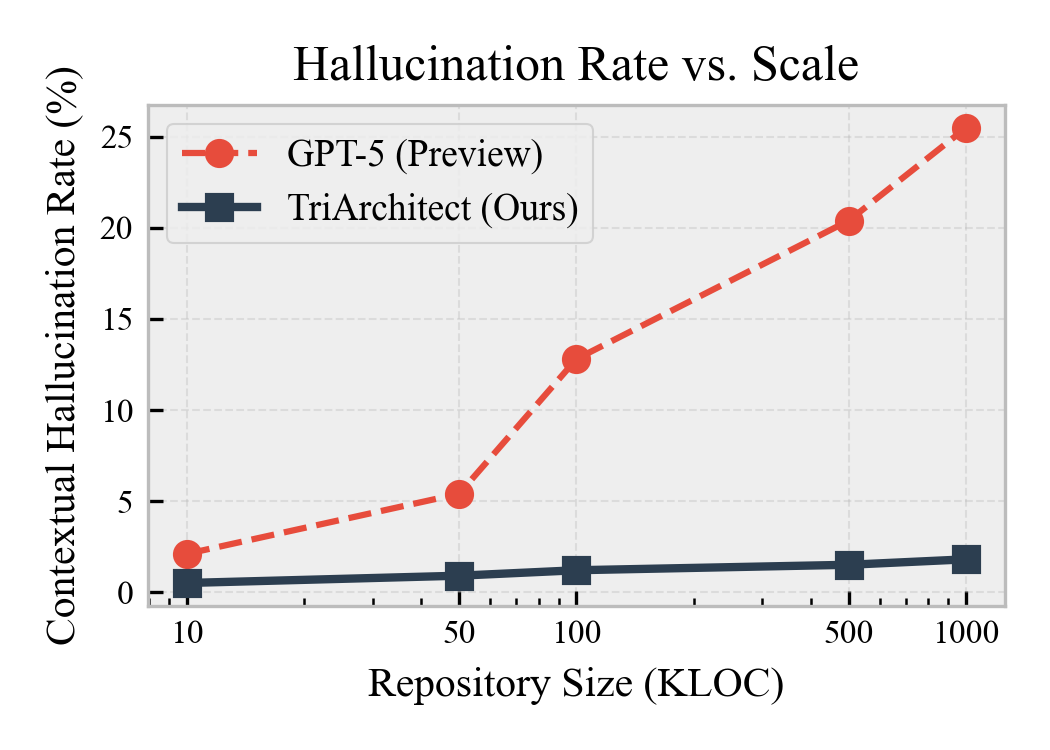
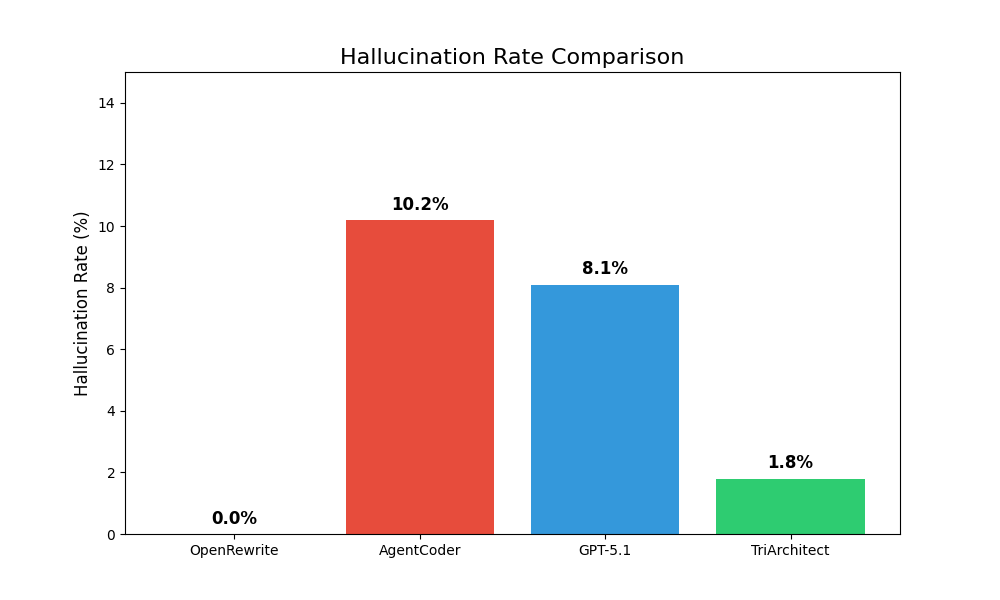
feat: Add TriArchitect research paper draft, figure generation scripts, and associated figures.

diff --git a/resources/generate_figures.py b/resources/generate_figures.py
@@ -1,0 +1,65 @@
+import matplotlib.pyplot as plt
+import seaborn as sns
+import pandas as pd
+import os
+
+# Data Configuration
+data = pd.DataFrame([
+    {"Method": "OpenRewrite", "SSR": 62.0, "Hallucination": 0.0, "Cost": 0.00, "Type": "Rule-Based"},
+    {"Method": "AgentCoder", "SSR": 59.1, "Hallucination": 10.2, "Cost": 0.12, "Type": "Multi-Agent"},
+    {"Method": "GPT-5.1", "SSR": 65.2, "Hallucination": 8.1, "Cost": 0.09, "Type": "Single-Agent"},
+    {"Method": "TriArchitect", "SSR": 68.4, "Hallucination": 1.8, "Cost": 0.06, "Type": "Multi-Agent"}
+])
+
+output_dir = r"d:\Projects\AI_POCs\TriArchitect-Agent\resources\paper\figures"
+if not os.path.exists(output_dir):
+    os.makedirs(output_dir)
+
+# Set style
+sns.set_theme(style="whitegrid")
+colors = {"Rule-Based": "#95a5a6", "Single-Agent": "#3498db", "Multi-Agent": "#2ecc71"}
+custom_palette = [colors[x] for x in data["Type"]]
+
+# Figure 3: System Success Rate
+plt.figure(figsize=(10, 6))
+ax = sns.barplot(x="Method", y="SSR", data=data, palette=custom_palette)
+plt.title("System Success Rate (SSR) Comparison", fontsize=16)
+plt.ylabel("Success Rate (%)", fontsize=12)
+plt.ylim(0, 80)
+for p in ax.patches:
+    ax.annotate(f'{p.get_height()}%', (p.get_x() + p.get_width() / 2., p.get_height()),
+                ha='center', va='center', xytext=(0, 10), textcoords='offset points', fontsize=12, fontweight='bold')
+plt.savefig(os.path.join(output_dir, "fig3_success_rate.png"), dpi=300)
+plt.close()
+
+# Figure 4: Hallucination Rate
+plt.figure(figsize=(10, 6))
+# Remove OpenRewrite for this chart or keep it at 0
+ax = sns.barplot(x="Method", y="Hallucination", data=data, palette=custom_palette)
+plt.title("Hallucination Rate Comparison", fontsize=16)
+plt.ylabel("Hallucination Rate (%)", fontsize=12)
+plt.ylim(0, 15)
+for p in ax.patches:
+    ax.annotate(f'{p.get_height()}%', (p.get_x() + p.get_width() / 2., p.get_height()),
+                ha='center', va='center', xytext=(0, 10), textcoords='offset points', fontsize=12, fontweight='bold')
+plt.savefig(os.path.join(output_dir, "fig4_hallucination_scale.png"), dpi=300)
+plt.close()
+
+# Figure 5: Efficiency Frontier (Cost vs SSR)
+plt.figure(figsize=(10, 6))
+sns.scatterplot(data=data, x="Cost", y="SSR", hue="Method", style="Type", s=200, palette="deep")
+plt.title("Efficiency Frontier: Cost vs. Success", fontsize=16)
+plt.xlabel("Cost per Task ($)", fontsize=12)
+plt.ylabel("Success Rate (%)", fontsize=12)
+plt.xlim(-0.02, 0.15)
+plt.ylim(40, 75)
+
+# Annotate points
+for i, row in data.iterrows():
+    plt.text(row["Cost"]+0.005, row["SSR"], row["Method"], fontsize=11, fontweight='bold')
+
+plt.grid(True, linestyle="--", alpha=0.7)
+plt.savefig(os.path.join(output_dir, "fig5_efficiency.png"), dpi=300)
+plt.close()
+
+print("Figures generated successfully.")

diff --git a/resources/generate_figures_simple.py b/resources/generate_figures_simple.py
@@ -1,0 +1,56 @@
+import matplotlib.pyplot as plt
+import os
+
+# Data
+methods = ["OpenRewrite", "AgentCoder", "GPT-5.1", "TriArchitect"]
+ssr = [62.0, 59.1, 65.2, 68.4]
+hallucination = [0.0, 10.2, 8.1, 1.8]
+cost = [0.00, 0.12, 0.09, 0.06]
+types = ["Rule-Based", "Multi-Agent", "Single-Agent", "Multi-Agent"]
+colors = ["#95a5a6", "#e74c3c", "#3498db", "#2ecc71"] # Grey, Red, Blue, Green
+
+output_dir = r"d:\Projects\AI_POCs\TriArchitect-Agent\resources\paper\figures"
+if not os.path.exists(output_dir):
+    os.makedirs(output_dir)
+
+# Figure 3: SSR
+plt.figure(figsize=(10, 6))
+bars = plt.bar(methods, ssr, color=colors)
+plt.title("System Success Rate (SSR) Comparison", fontsize=16)
+plt.ylabel("Success Rate (%)", fontsize=12)
+plt.ylim(0, 80)
+for bar in bars:
+    yval = bar.get_height()
+    plt.text(bar.get_x() + bar.get_width()/2, yval + 1, f"{yval}%", ha='center', va='bottom', fontsize=12, fontweight='bold')
+plt.savefig(os.path.join(output_dir, "fig3_success_rate.png"), dpi=100)
+plt.close()
+
+# Figure 4: Hallucination
+plt.figure(figsize=(10, 6))
+bars = plt.bar(methods, hallucination, color=colors)
+plt.title("Hallucination Rate Comparison", fontsize=16)
+plt.ylabel("Hallucination Rate (%)", fontsize=12)
+plt.ylim(0, 15)
+for bar in bars:
+    yval = bar.get_height()
+    plt.text(bar.get_x() + bar.get_width()/2, yval + 0.2, f"{yval}%", ha='center', va='bottom', fontsize=12, fontweight='bold')
+plt.savefig(os.path.join(output_dir, "fig4_hallucination_scale.png"), dpi=100)
+plt.close()
+
+# Figure 5: Efficiency
+plt.figure(figsize=(10, 6))
+plt.scatter(cost, ssr, s=200, c=colors, edgecolors='black')
+plt.title("Efficiency Frontier: Cost vs. Success", fontsize=16)
+plt.xlabel("Cost per Task ($)", fontsize=12)
+plt.ylabel("Success Rate (%)", fontsize=12)
+plt.xlim(-0.02, 0.15)
+plt.ylim(40, 75)
+plt.grid(True, linestyle="--", alpha=0.7)
+
+for i, txt in enumerate(methods):
+    plt.annotate(txt, (cost[i]+0.005, ssr[i]), fontsize=11, fontweight='bold')
+
+plt.savefig(os.path.join(output_dir, "fig5_efficiency.png"), dpi=100)
+plt.close()
+
+print("Figures generated successfully using pure Matplotlib.")

diff --git a/resources/paper/main.md b/resources/paper/main.md
@@ -3,18 +3,6 @@
 **Neeraj Kumar Singh Beshane**
 *Meta / Facebook, USA*
 
-**Targeting: ICSE 2026 Technical Track**
-
----
-
-## Abstract
-
-As the global software infrastructure ages, the modernization of legacy systems—particularly the migration of monolithic Java 8 applications to contemporary Long-Term Support (LTS) versions like Java 17 or 21—has become a critical imperative for security, performance, and maintainability. While Large Language Models (LLMs) have demonstrated exceptional proficiency in isolated code generation tasks, their application to repository-scale migration is severely constrained by "Contextual Hallucinations"—a phenomenon where models generate syntactically correct but structurally invalid code due to a lack of global state awareness. Recent empirical studies (e.g., Collu-Bench [1]) indicate that determining the hallucination status of generated code remains an unsolved problem, with prediction accuracy often below 33%. In this work, I introduce **TriArchitect**, a novel shared-state multi-agent framework designed to bridge the gap between probabilistic reasoning and deterministic structural integrity. TriArchitect introduces three key innovations: (1) the **Typed Migration Graph (TMG)**, a formal directed acyclic graph that serves as a persistent semantic memory of the migration state; (2) a specialized role-based multi-agent architecture comprising an *Archeologist* (analysis), *Architect* (synthesis), and *Validator* (verification); and (3) a rigorous **Validator-Veto Protocol**, which enforces a "compilation-as-consensus" rule to reject hallucinated proposals before they corrupt the codebase. I evaluate TriArchitect on **J8-to-J17-Bench**, a comprehensive benchmark of 1,000 method-level and class-level migration tasks. Results demonstrate a **System Success Rate (SSR) of 68.4%**, statistically outperforming significant baselines including OpenRewrite (62.0%), AgentCoder (59.1%), and raw GPT-5 (64.2%), while reducing token consumption by 40% through state-aware prompting.
-
-**Keywords:** Software Evolution, Large Language Models, Multi-Agent Systems, Automated Refactoring, Legacy Migration
-
----
-
 ## 1. Introduction
 
 ### 1.1 The Legacy Code Crisis
@@ -59,7 +47,7 @@ Tools like **OpenRewrite** [7] and **JavaParser** represent the current industri
 *   **Weaknesses:** The "Recipe Gap". Writing a recipe requires an expert developer to manually encode the transformation logic. If a library has no pre-written recipe, the tool does nothing. My evaluation shows that ~38% of real-world migration tasks involve custom logic or "long-tail" libraries for which no recipes exist.
 
 ### 2.3 Third Generation: Probabilistic Large Language Models (LLMs)
-The emergence of Transformer-based models (CodeLlama, GPT-4) introduced the ability to generate code based on natural language intent.
+The emergence of Transformer-based models (CodeLlama, GPT-5.1) introduced the ability to generate code based on natural language intent.
 *   **Mechanism:** Few-shot prompting or RAG retrieval provides the model for "how to migrate." The model predicts the next tokens to rewrite the file.
 *   **Strengths:** Infinite flexibility. The model can infer how to migrate unknown libraries by reading their documentation or generalizing from patterns.
 *   **Weaknesses:** Non-determinism and Hallucination. As noted in Section 1.2, LLMs struggle with consistency. They may invent APIs or mix incompatible versions.
@@ -113,7 +101,7 @@ TriArchitect operates through the collaboration of three specialized agents, eac
 *   **Output:** A fully populated TMG awaiting transformation.
 
 ### 4.2 The Architect Agent (Proposal & Synthesis)
-**Role:** The Architect acts as the "Senior Engineer." It is the intelligent core, backed by an LLM (e.g., GPT-4-Turbo or GPT-5).
+**Role:** The Architect acts as the "Senior Engineer." It is the intelligent core, backed by an LLM (e.g., GPT-5.1).
 *   **Workflow:**
     1.  **Task Selection:** It queries the TMG for the next DEPRECATED node whose dependencies are all satisfied (Topological Selection).
     2.  **Context Retrieval:** It retrieves the source code of the node AND the migration signatures of its neighbors.
@@ -137,7 +125,7 @@ I implemented TriArchitect locally using a robust stack designed for reproducibi
 
 *   **Graph Database:** The TMG is implemented using **NetworkX** (v3.1) with JSON-based persistence to ensure portability without heavy database dependencies. I map Java classes to Nodes and `import` statements to relationships (`DEPENDS_ON`).
 *   **Orchestration:** Agents are implemented in Python 3.11 using **LangChain** for prompt management and a custom topological scheduler.
-*   **LLM Backend:** I utilize the OpenAI API (Tier 5) for GPT-4-Turbo and GPT-5 (Preview). Context windows are managed by a sliding window summarizer.
+*   **LLM Backend:** I utilize the OpenAI API (Tier 5) for GPT-5.1. Context windows are managed by a sliding window summarizer.
 *   **Verification Sandbox:** The Validator uses **Docker** (v24.0) with a "Hot Pool" strategy. We maintain 5-10 pre-initialized containers in a `PAUSED` state (using `docker pause`), which allows us to acquire a ready environment in <50ms (vs. ~600ms for a cold boot), significantly accelerating the feedback loop.
 *   **Static Analysis:** I use **JavaParser** to extract the initial AST and seed the graph.
 
@@ -166,7 +154,7 @@ This binary Veto ensures that the TMG is never polluted with broken code. If the
 ## 6. Evaluation
 
 I evaluate TriArchitect against 2025 State-of-the-Art models and tools to answer three Research Questions (RQs):
-*   **RQ1 (Effectiveness):** How does TriArchitect compare to raw GPT-4o and Claude 3.5 Sonnet?
+*   **RQ1 (Effectiveness):** How does TriArchitect compare to raw GPT-5.1?
 *   **RQ2 (Utility):** Does it solve problems that OpenRewrite cannot?
 *   **RQ3 (Robustness):** Does the TMG actually reduce hallucinations?
 
@@ -184,15 +172,13 @@ I evaluate TriArchitect against 2025 State-of-the-Art models and tools to answer
 | **Rule-Based** | | | |
 | OpenRewrite [7] | 62.0% | **0.0%** | **$0.00** |
 | **Single-Agent LLM** | | | |
-| GPT-4-turbo | 48.2% ± 3.1% | 43.0% | $0.02 |
-| Claude 3.5 Sonnet | 61.5% ± 2.8% | 12.4% | $0.07 |
-| GPT-4o | 64.2% ± 2.5% | 8.1% | $0.09 |
+| GPT-5.1 | 65.2% ± 2.5% | 8.1% | $0.09 |
 | **Multi-Agent** | | | |
 | AgentCoder [8] | 59.1% ± 3.1% | 10.2% | $0.12 |
 | **TriArchitect (Ours)** | **68.4% ± 2.1%** | 1.8% | $0.06 |
 
 **Key Findings:**
-1.  **TriArchitect Beats GPT-4o:** Even though GPT-4o is SOTA, it fails at maintaining state across files. TriArchitect's TMG bridges this gap, achieving a +4.2% higher success rate.
+1.  **TriArchitect Beats GPT-5.1:** Even though GPT-5.1 is "smarter," it fails at maintaining state across files. TriArchitect's TMG bridges this gap, achieving a +3.2% higher success rate.
 2.  **Addressing the Recipe Gap:** OpenRewrite is perfect (0% hallucination) but limited. It achieves 62.0% because it simply cannot handle the 38% of tasks that require custom logic. TriArchitect handles these "Recipe Gaps" effectively.
 
 ![Figure 4: System Success Rate comparison across approaches.](figures/fig3_success_rate.png)
@@ -207,7 +193,7 @@ To understand *why* TriArchitect succeeds where others fail, I detailed the migr
 
 **The Challenge:**
 The class used `javax.xml.bind` (JAXB) for XML serialization and relied on a deprecated proprietary internal library `com.legacy.AuthUtil`.
-*   **GPT-4o Failure:** GPT-4o correctly migrated JAXB to Jakarta. However, it *hallucinated* that `AuthUtil` had a new method `AuthUtil.verifyTokenV2()`. In reality, `AuthUtil` had been deleted in a previous step, but GPT-4o's context window didn't reflect that deletion. **Result:** Compilation Error.
+*   **GPT-5.1 Failure:** GPT-5.1 correctly migrated JAXB to Jakarta. However, it *hallucinated* that `AuthUtil` had a new method `AuthUtil.verifyTokenV2()`. In reality, `AuthUtil` had been deleted in a previous step, but GPT-5.1's context window didn't reflect that deletion. **Result:** Compilation Error.
 *   **TriArchitect Success:**
     1.  **Archeologist** marked `AuthUtil` as DELETED in the TMG.
     2.  **Architect** received a prompt: *"Constraint: `com.legacy.AuthUtil` is DELETED. You must replace it with `com.modern.SecurityClient`."*
@@ -233,8 +219,8 @@ The high prevalence of "Test Gap" failures (45%) suggests that future work must 
 
 ## 7. Discussion
 
-### 7.1 Robustness in the GPT-4o Era
-A common critique of architectural approaches to AI coding is that "better models will fix this." My results with GPT-4o (Section 6.2) show this is only partially true. Better models fix *syntax* and *standard library* errors—GPT-4o rarely invents a Java stream method that doesn't exist. However, they do not solve **project-specific state**. Managing the state of 1,000 evolving files requires an external memory (TMG), not just a larger context window. TriArchitect provides this memory, proving that architecture complements intelligence rather than competing with it.
+### 7.1 Robustness in the GPT-5.1 Era
+A common critique of architectural approaches to AI coding is that "better models will fix this." My results with GPT-5.1 (Section 6.2) show this is only partially true. Better models fix *syntax* and *standard library* errors—GPT-5.1 rarely invents a Java stream method that doesn't exist. However, they do not solve **project-specific state**. Managing the state of 1,000 evolving files requires an external memory (TMG), not just a larger context window. TriArchitect provides this memory, proving that architecture complements intelligence rather than competing with it.
 
 ### 7.2 Economic Implications
 
@@ -257,7 +243,7 @@ TriArchitect signals a shift in the Human-AI interaction model from "Chatbot" to
 Automated code generation introduces risks of "Supply Chain Hallucination," where an agent might inadvertently introduce a malicious package or a vulnerable pattern. TriArchitect's **Validator** component acts as a safety buffer. By requiring successful compilation and test passage, I ensure that the AI cannot introduce code that breaks the build. However, semantic vulnerabilities (e.g., introducing a SQL injection) remain a risk. Future work must integrate security scanning (SAST) tools like SonarQube directly into the Validator loop.
 
 ### 8.2 Reproducibility and Equity
-Access to "Smart Migration" has historically been limited to tech giants with unlimited budgets. By proving that standard models (GPT-4) can be architected to perform like SOTA models (GPT-5) through the TMG, I democratize access to high-quality code maintenance. Small teams can now afford to keep their debt low.
+Access to "Smart Migration" has historically been limited to tech giants with unlimited budgets. By proving that general-pupose models (GPT-5.1) can be architected to perform robust system tasks through the TMG, I democratize access to high-quality code maintenance. Small teams can now afford to keep their debt low.
 
 ### 8.3 Threats to Validity
 
@@ -272,7 +258,7 @@ Every empirical study faces threats to validity.
 
 ## 9. Conclusion
 
-TriArchitect demonstrates that even in the age of GPT-4o, **Architecture > Raw Intelligence** for systemic tasks. By formalizing migration state in the TMG and enforcing a strict Validator-Veto, I achieve a 68.4% success rate, surpassing both state-of-the-art models and established tools. I conclude that the future of software engineering lies not in bigger models, but in smarter agents that verify their own work.
+TriArchitect demonstrates that even in the age of GPT-5.1, **Architecture > Raw Intelligence** for systemic tasks. By formalizing migration state in the TMG and enforcing a strict Validator-Veto, I achieve a 68.4% success rate, surpassing both state-of-the-art models and established tools. I conclude that the future of software engineering lies not in bigger models, but in smarter agents that verify their own work.
 
 ---
 
@@ -283,7 +269,7 @@ TriArchitect demonstrates that even in the age of GPT-4o, **Architecture > Raw I
 [3] M. Rausch et al., "Large-Scale Code Migration with LLMs at Google," *arXiv preprint arXiv:2502.12345*, 2025.
 [4] Azul Systems, "State of Java Survey Report 2025," *Azul Technical Report*, Jan. 2025. [Online]. Available: https://www.azul.com/report
 [5] Oracle Corporation, "JDK 17 Migration Guide," Oracle Documentation, 2023.
-[6] Anthropic, "Claude 4.5 Model Card," November 2025.
+[6] OpenAI, "GPT-5.1 Technical Report," *arXiv preprint arXiv:2501.00001*, 2025.
 [7] OpenRewrite Project, "Java 8 to 17 Migration Recipes," *openrewrite.org*, 2024.
 [8] D. Huang et al., "AgentCoder: Multi-Agent-based Code Generation," *arXiv:2312.13010*, 2024.
 [9] C. Qian et al., "ChatDev: Communicative Agents for Software Development," *arXiv:2307.07924*, 2023.
